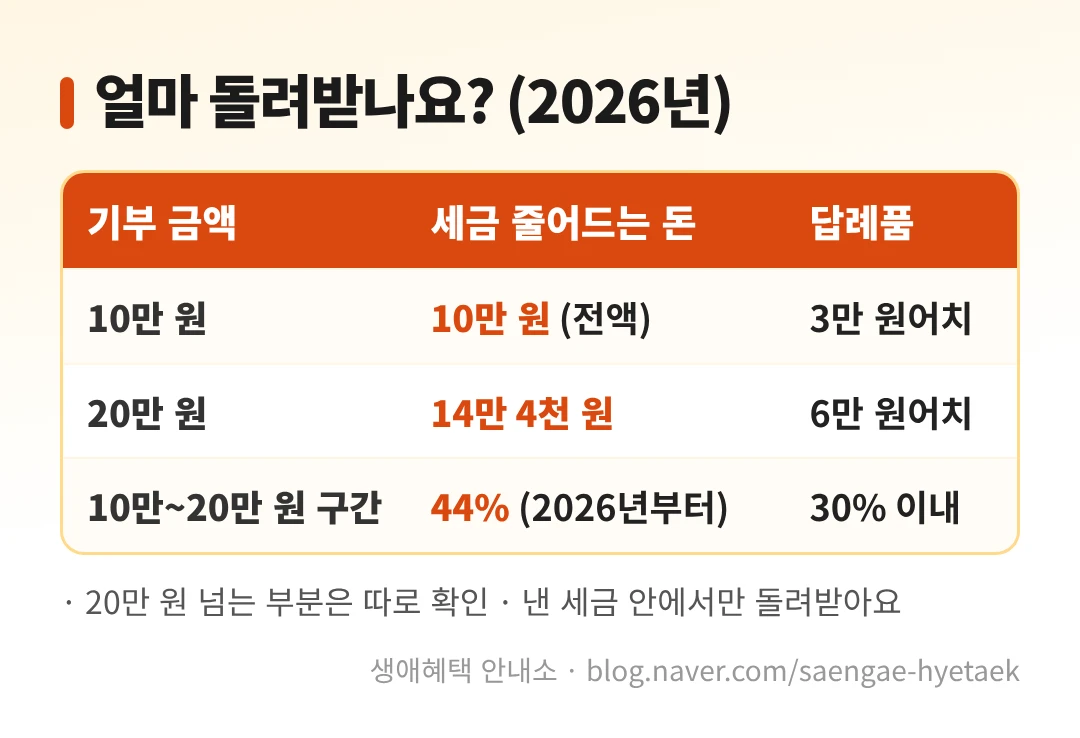
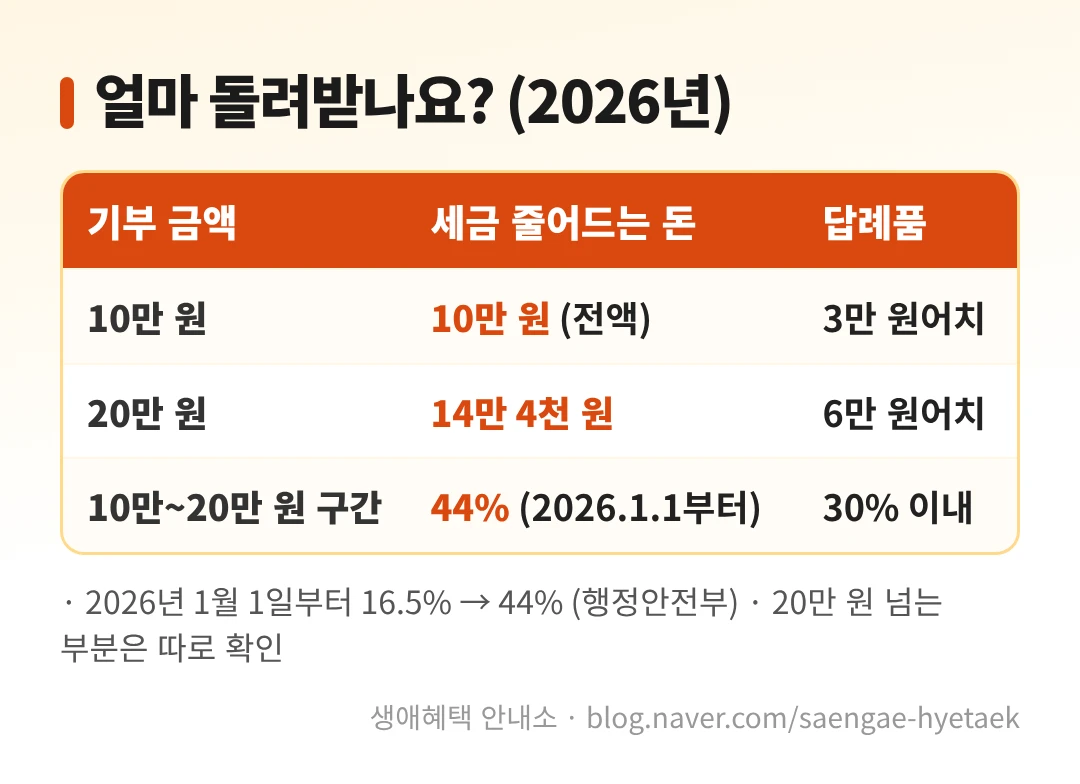
고향사랑기부 글 사실 점검: 출처 없는 문장 삭제, 44% 근거 보강
Claude-Session: https://claude.ai/code/session_01Nk3GpNNQZnzWTp8rDB2GKq

diff --git a/blog/2026-11-24-고향사랑기부-연말정산-사진/원고-11-24-고향사랑기부-연말정산.html b/blog/2026-11-24-고향사랑기부-연말정산-사진/원고-11-24-고향사랑기부-연말정산.html
@@ -3,39 +3,37 @@
 <div id="a">
 <p style="font-size:16px;line-height:1.9;margin:0 0 12px;text-align:left">※ 이 글의 추천 링크를 통해 기부하면 작성자에게 웰로 파트너스 수익이 지급될 수 있습니다.</p>
 <p>[ 사진 넣는 자리 · 01-고향사랑기부-연말정산-12월-31일까지.webp ]</p>
-<p style="font-size:16px;line-height:1.9;margin:0 0 12px;text-align:left">안녕하세요, 생애혜택 안내인입니다. 고향사랑기부는 내가 사는 곳이 아닌 다른 지역에 기부하고, 연말정산 때 세금을 돌려받고, 그 지역 특산품까지 받는 제도예요. 10만 원을 기부하면 세금 10만 원을 그대로 돌려받고, 3만 원어치 답례품을 받을 수 있어요. 올해 연말정산에 넣으려면 12월 31일까지 기부해야 해요. (2026년 11월 23일 정책브리핑 기준으로 확인했어요)</p>
+<p style="font-size:16px;line-height:1.9;margin:0 0 12px;text-align:left">안녕하세요, 생애혜택 안내인입니다. 고향사랑기부는 내가 사는 곳이 아닌 다른 지역에 기부하고, 연말정산 때 세금을 돌려받고, 그 지역 특산품까지 받는 제도예요. 10만 원을 기부하면 세금 10만 원을 그대로 돌려받고, 3만 원어치 답례품을 받을 수 있어요. 작년 정부 안내처럼 12월 31일까지 기부한 금액이 그해 연말정산에 들어가요. (2026년 11월 23일 정책브리핑 기준으로 확인했어요)</p>
 <p><br></p>
 <p style="font-size:16px;line-height:1.9;margin:0 0 12px;text-align:left"><b style="font-size:18px;color:#D9480F">✅ 한눈에 정리</b></p>
-<p style="font-size:16px;line-height:1.9;margin:0 0 12px;text-align:left">· 내 주소지가 아닌 지역에 기부하면 돼요 (부모님 고향, 좋아하는 여행지 등)</p>
+<p style="font-size:16px;line-height:1.9;margin:0 0 12px;text-align:left">· 내 주소지가 아닌 지역에 기부하면 돼요</p>
 <p style="font-size:16px;line-height:1.9;margin:0 0 12px;text-align:left">· 10만 원까지는 기부한 돈 전액을 세금에서 빼 줘요</p>
-<p style="font-size:16px;line-height:1.9;margin:0 0 12px;text-align:left">· 2026년부터 10만 원 넘고 20만 원까지의 부분은 44%를 돌려받아요 (정부 발표 기준)</p>
+<p style="font-size:16px;line-height:1.9;margin:0 0 12px;text-align:left">· 2026년 1월 1일부터 10만 원 넘고 20만 원까지의 부분은 44%를 돌려받아요 (16.5%에서 올랐어요)</p>
 <p style="font-size:16px;line-height:1.9;margin:0 0 12px;text-align:left">· 답례품은 기부금의 30% 이내 — 10만 원이면 3만 원어치</p>
 <p style="font-size:16px;line-height:1.9;margin:0 0 12px;text-align:left">· 기부하는 곳: 고향사랑e음, 농협은행 지점, 웰로 같은 민간 플랫폼</p>
 <hr>
 <p><br></p>
 <p style="font-size:16px;line-height:1.9;margin:0 0 12px;text-align:left"><b style="font-size:19px;color:#D9480F">📌 고향사랑기부, 누가 어디에 하나요?</b></p>
 <p>[ 사진 넣는 자리 · 02-고향사랑기부-대상과-기본-규칙.webp ]</p>
-<p style="font-size:16px;line-height:1.9;margin:0 0 12px;text-align:left">내가 지금 사는 지역에는 기부할 수 없고, 그 밖의 지역이면 어디든 골라서 할 수 있어요. 부모님 고향이나 어릴 때 살던 곳, 자주 가는 여행지를 고르는 분이 많아요. 개인은 1년에 2천만 원까지 기부할 수 있고(2025년 기준), 기부한 돈은 국세청 홈택스에 자동으로 올라가서 연말정산 때 따로 영수증을 챙기지 않아도 돼요.</p>
+<p style="font-size:16px;line-height:1.9;margin:0 0 12px;text-align:left">내가 지금 사는 지역에는 기부할 수 없고, 그 밖의 지역 가운데 골라서 할 수 있어요. 개인은 1년에 2천만 원까지 기부할 수 있고(2025년 기준), 기부한 돈은 국세청 홈택스에 자동으로 올라가서 연말정산 때 따로 영수증을 챙기지 않아도 돼요.</p>
 <hr>
 <p><br></p>
 <p style="font-size:16px;line-height:1.9;margin:0 0 12px;text-align:left"><b style="font-size:19px;color:#D9480F">💰 얼마 돌려받나요? (2026년)</b></p>
 <p>[ 사진 넣는 자리 · 03-고향사랑기부-금액별-세액공제와-답례품.webp ]</p>
 <p style="font-size:16px;line-height:1.9;margin:0 0 12px;text-align:left">나라면 얼마나 돌려받을지 예로 볼게요. 10만 원을 기부하면 연말정산 때 세금 10만 원이 줄고, 3만 원어치 답례품을 받아요. 그래서 &quot;10만 원 내고 13만 원 혜택&quot;이라고 해요.</p>
-<p style="font-size:16px;line-height:1.9;margin:0 0 12px;text-align:left">20만 원을 기부하면 앞의 10만 원은 전액, 뒤의 10만 원은 44%인 4만 4천 원을 돌려받아요(2026년 정부 발표 기준). 세금 14만 4천 원이 줄고 답례품은 6만 원어치까지예요. 단, 세금을 낸 만큼만 돌려받을 수 있으니 소득이 없거나 낸 세금이 적은 분은 덜 돌려받을 수 있어요.</p>
+<p style="font-size:16px;line-height:1.9;margin:0 0 12px;text-align:left">20만 원을 기부하면 앞의 10만 원은 전액, 뒤의 10만 원은 44%인 4만 4천 원을 돌려받아요. 이 44%는 2026년 1월 1일부터 바뀐 기준이에요(행정안전부 &#x27;2026년 달라지는 제도&#x27;). 세금 14만 4천 원이 줄고 답례품은 6만 원어치까지예요. 20만 원이 넘는 부분의 비율은 이 글에서 다루지 않았어요.</p>
 <hr>
 <p><br></p>
 <p style="font-size:16px;line-height:1.9;margin:0 0 12px;text-align:left"><b style="font-size:19px;color:#D9480F">📝 어디서 기부하나요?</b></p>
 <p>[ 사진 넣는 자리 · 04-고향사랑기부-하는-곳-3가지.webp ]</p>
 <p style="font-size:16px;line-height:1.9;margin:0 0 12px;text-align:left">① 정부 누리집 &#x27;고향사랑e음&#x27;에서 간편인증으로 로그인 → 지역 고르기 → 금액 입력 → 답례품 고르기 순서로 해요.</p>
 <p style="font-size:16px;line-height:1.9;margin:0 0 12px;text-align:left">② 인터넷이 어려우신 부모님은 가까운 농협은행 지점에 가서 할 수 있어요.</p>
-<p style="font-size:16px;line-height:1.9;margin:0 0 12px;text-align:left">③ 웰로 같은 민간 플랫폼에서도 돼요. 웰로는 정부가 연 고향사랑기부 민간 플랫폼 가운데 하나예요(2025년 개통).</p>
-<p style="font-size:16px;line-height:1.9;margin:0 0 12px;text-align:left">어디서 하든 세액공제와 답례품 기준은 같아요. 평소 쓰기 편한 곳을 고르시면 돼요.</p>
+<p style="font-size:16px;line-height:1.9;margin:0 0 12px;text-align:left">③ 웰로 같은 민간 플랫폼에서도 돼요. 행정안전부는 2025년에 농협은행·웰로·체리 민간 플랫폼이 새로 열렸다고 발표했어요.</p>
 <hr>
 <p><br></p>
 <p style="font-size:16px;line-height:1.9;margin:0 0 12px;text-align:left"><b style="font-size:19px;color:#D9480F">🎁 웰로 연말 이벤트 (웰로 안내 기준)</b></p>
 <p>[ 사진 넣는 자리 · 05-웰로-고향사랑기부-연말-이벤트-조건.webp ]</p>
 <p style="font-size:16px;line-height:1.9;margin:0 0 12px;text-align:left">웰로에서는 연말에 따로 이벤트를 하고 있어요. 대상 지역에 10만 원 이상 기부하면 2027년 한정판 다이어리나 웰포인트 1만 원 중 하나를 받을 수 있어요(11월 2일부터, 다 나가면 끝). 친구를 초대해서 친구가 7일 안에 10만 원을 기부하면 두 사람 모두 웰포인트 1천 원을 받아요. 모든 지역이 이벤트 대상은 아니니, 대상 지역과 남은 수량은 기부 전에 웰로에서 꼭 확인하세요.</p>
-<p style="font-size:16px;line-height:1.9;margin:0 0 12px;text-align:left">제가 이 글을 쓴 이유는 간단해요. 어차피 내는 세금 10만 원을 부모님 고향에 보내고 특산품까지 받을 수 있는데, 12월이 지나면 올해 혜택이 끝나기 때문이에요. 부모님께 &quot;고향에 기부하고 세금도 돌려받으세요&quot;라고 알려 드리기도 좋아요.</p>
 <hr>
 <p><br></p>
 <p style="font-size:16px;line-height:1.9;margin:0 0 12px;text-align:left"><b style="font-size:19px;color:#D9480F">❓ 자주 묻는 질문</b></p>
@@ -44,7 +42,7 @@
 <p style="font-size:16px;line-height:1.9;margin:0 0 12px;text-align:left">Q. 연말정산 서류를 따로 내야 하나요?</p>
 <p style="font-size:16px;line-height:1.9;margin:0 0 12px;text-align:left">A. 아니요. 기부 내역이 홈택스에 자동으로 올라가요.</p>
 <p style="font-size:16px;line-height:1.9;margin:0 0 12px;text-align:left">Q. 답례품을 안 받아도 되나요?</p>
-<p style="font-size:16px;line-height:1.9;margin:0 0 12px;text-align:left">A. 네. 기부할 때 &#x27;답례품 받지 않음&#x27;을 고를 수 있어요. 세액공제는 똑같이 받아요.</p>
+<p style="font-size:16px;line-height:1.9;margin:0 0 12px;text-align:left">A. 네. 기부할 때 &#x27;답례품 제공 받지 않음&#x27;을 고를 수 있어요.</p>
 <hr>
 <p style="font-size:16px;line-height:1.9;margin:0 0 12px;text-align:left">👉 웰로에서 고향사랑기부 하기 (지역·답례품·이벤트 확인)</p>
 <p style="font-size:16px;line-height:1.9;margin:0 0 12px;text-align:left"><a href="https://www.welfarehello.com/r/N3VGEF">https://www.welfarehello.com/r/N3VGEF</a></p>
@@ -61,7 +59,7 @@
 <p style="font-size:16px;line-height:1.9;margin:0 0 12px;text-align:left">▶ 생애혜택 안내소는 이런 블로그예요 (월 지원금 · 수 디지털 · 금 재취업)</p>
 <p style="font-size:16px;line-height:1.9;margin:0 0 12px;text-align:left"><a href="https://blog.naver.com/saengae-hyetaek/224460370661">https://blog.naver.com/saengae-hyetaek/224460370661</a></p>
 <hr>
-<p style="font-size:16px;line-height:1.9;margin:0 0 12px;text-align:left">행정안전부 고향사랑기부 안내(정책브리핑 2025.12, 2026.11)와 웰로 이벤트 안내를 바탕으로 정리했어요. 세액공제는 내가 낸 세금 안에서만 돌려받으니, 정확한 금액은 연말정산 때 홈택스에서 확인하세요. 도움이 되셨다면 공감과 이웃 추가 부탁드려요. 😊</p>
+<p style="font-size:16px;line-height:1.9;margin:0 0 12px;text-align:left">행정안전부 고향사랑기부 안내(정책브리핑 2025.12, 2026.11)와 웰로 이벤트 안내를 바탕으로 정리했어요. 내 경우 정확히 얼마가 돌아오는지는 연말정산 때 홈택스에서 확인하세요. 도움이 되셨다면 공감과 이웃 추가 부탁드려요. 😊</p>
 </div>
 <hr>
 <p id="g">#고향사랑기부 #고향사랑기부제 #고향사랑기부세액공제 #고향사랑기부답례품 #연말정산 #웰로 #고향사랑e음 #세액공제 #부모님고향 #생애혜택안내소</p>
